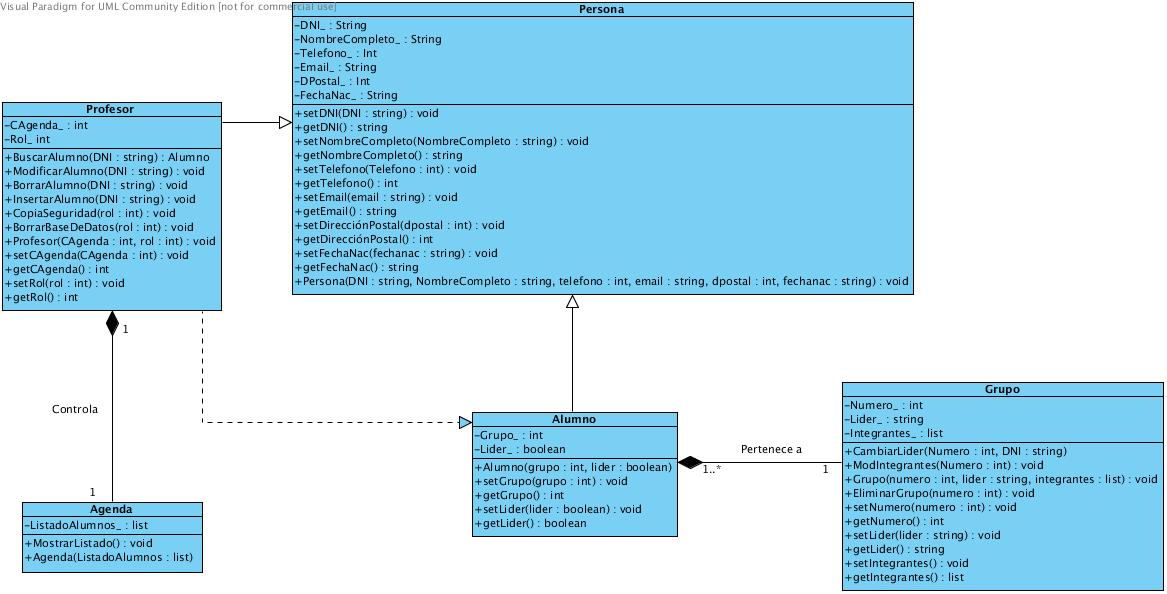
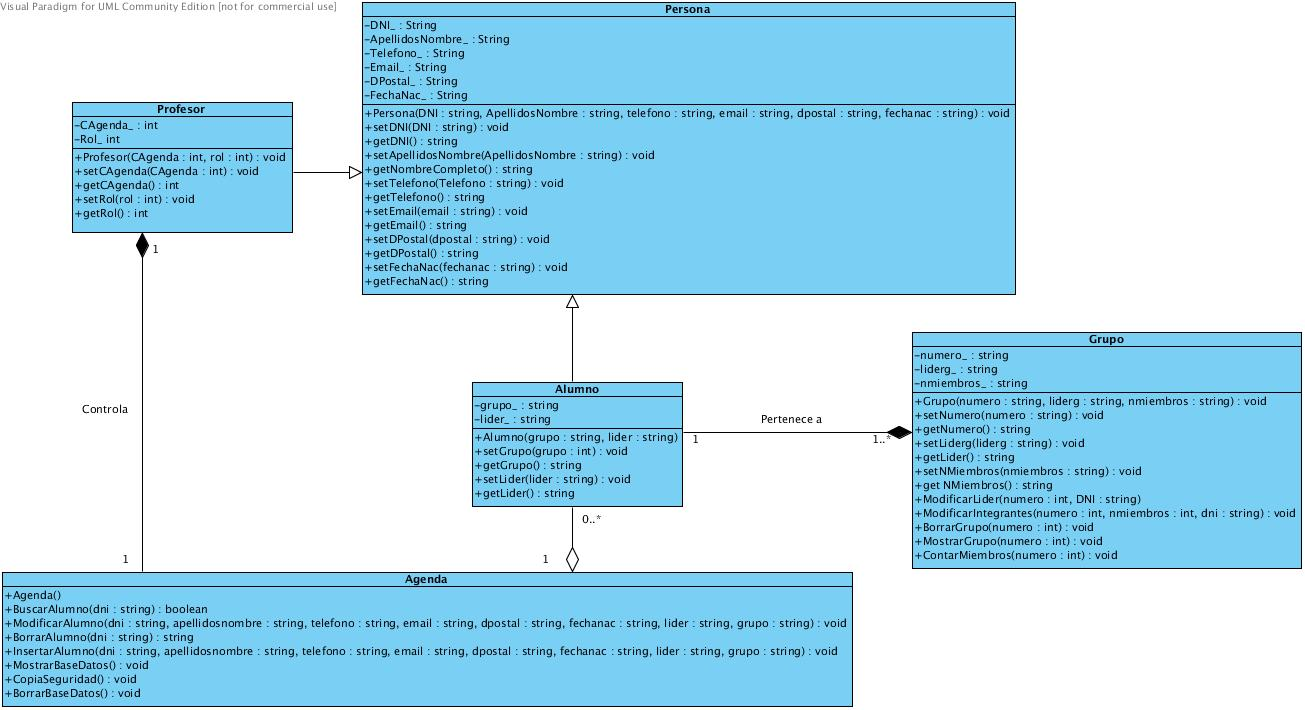
COMPLETO

diff --git a/practica3/02.Diagrama_de_clase.md b/practica3/02.Diagrama_de_clase.md
@@ -1,6 +1,6 @@
 **EXPLICACION DIAGRAMA DE CLASES**
 ---
-**CLASES PRESENTES**
+**CLASES PRESENTES.**
 Cada clase contiene su propia función constructora de la clase y sus funciones
 'Get' y 'Set' para cada atributo de la propia clase.
 
@@ -19,7 +19,7 @@ Cada clase contiene su propia función constructora de la clase y sus funciones
 - *Alumnos:* Es una de las clases que aparecen de la distinción de Persona y da
   lugar a la clase Grupo, tiene como atributos:
   - Grupo: Es el número de grupo al que cada alumno pertenece, apunta a la clase
-    'Grupo'.
+    'Grupo'
   - Líder: Es un dato de 'Si/No' que comprueba si dicho alumno es el líder de su
     grupo.
 
@@ -31,11 +31,14 @@ Cada clase contiene su propia función constructora de la clase y sus funciones
   - Integrantes: Es un atributo múltiple que contiene el nombre de todos
     los integrantes del grupo, líder incluido.
 
-  &nbsp;
-  *La clase Grupo también contiene las operaciones:*
-  - CambiarLíder(): Permite el cambio del líder del grupo mediante la introducción
+    &nbsp;
+
+  La clase Grupo también contiene las operaciones:
+  - MostrarGrupo(): Muestra a todos los componentes del grupo.
+  - ContarMiembros(): Cuenta los miembros que existen dentro de un grupo.
+  - ModificarLíder(): Permite el cambio del líder del grupo mediante la introducción
     del DNI del nuevo líder.
-  - ModIntegrantes(): Permite la expulsión o agregación de alumnos al grupo,
+  - ModificarIntegrantes(): Permite la expulsión o agregación de alumnos al grupo,
     no se puede expulsar al líder de forma que para echar al alumno líder hay que
     cambiar el líder previamente con 'Cambiar líder()'.
   - EliminarGrupo(): Permite la eliminación total del grupo.
@@ -43,13 +46,16 @@ Cada clase contiene su propia función constructora de la clase y sus funciones
 - *Profesor:* Es la otra clase que aparece como distinción de la clase 'Persona'
   y da lugar a la clase 'Agenda', esta clase hace referencia a la clase 'Alumnos'
   en algunas funciones, sus atributos son:
-  - CAgenda: Contiene el dato que distingue a los profesores.
+  - CAgenda: Contiene el dato que distingue a los profesores
   - Rol: Si contiene un 1, el rol asignado es el de 'Coordinador', si contiene
     un 0, se le asigna el rol 'Ayudante'. El rol 'Coordinador' tiene acceso a
     más funciones por ello es necesario hacer esta distinción.
 
-  &nbsp;
-  *La clase Profesor contiene las operaciones:*
+- *Agenda:* Es la clase que recoge el listado de todos los alumnos de la base de
+  datos, no tiene atributos.
+
+  *La clase Agenda contiene las operaciones:*
+
   - BuscarAlumno(): Busca un alumno mediante el dni y devuelve sus datos, si
     el alumno no existe aparece un mensaje de error por pantalla.
   - ModificarAlumno(): Recibe el DNI del alumno a modificar y hace una llamada
@@ -60,26 +66,17 @@ Cada clase contiene su propia función constructora de la clase y sus funciones
   - InsertarAlumno(): Recibe el DNI del nuevo alumno y hace una llamada a
     BuscarAlumno(), si el alumno no existe en la base de datos pide los datos
     del nuevo alumno.
-  - CopiaSeguridad(): Pide el rol del profesor, si este es Coordinador se crea
-    una copia de seguridad de toda la base de datos existente en un fichero
-    binario, si el rol no es de Coordinador termina directamente la función
-  - BorrarBaseDeDatos(): Pide el rol del profesor, si este es Coordinador imprime
-    un mensaje de alerta y luego pide confirmación para borrar toda la base de
-    datos, si el rol no es de Coordinador termina directamente la función.
-
-- *Agenda:* Es la clase que recoge el listado de todos los alumnos de la base de
-  datos, tiene como atributo:
-  - ListadoAlumnos: Es una lista que recoge todos los alumnos.
-
-  &nbsp;
-  *La clase Agenda contiene la operacion:*
-  - MostrarListado(): Hace las veces de un getAgenda(), muestra todo el listado
-    de alumnos de la base de datos.
+  - CopiaSeguridad(): Crea una copia de seguridad de toda la base de datos
+    existente en un fichero binario.
+  - BorrarBaseDeDatos(): Imprime un mensaje de alerta y luego pide confirmación
+    para borrar toda la base de datos.
+  - MostrarBaseDatos(): Muestra todo el listado de alumnos de la base de datos.
 
 **RELACIONES ENTRE CLASES**
 - Un alumno solo puede pertenecer a un grupo mientras que un único grupo se
-  compone de muchos alumnos.
+  compone de muchos alumnos
 - Un alumno puede uno o varios profesores pero uno de ellos debe ser Coordinador
-  mientras que todos los demás serán Ayudantes.
+  mientras que todos los demás serán Ayudantes
 - Un profesor controla una única agenda de clase y una agenda de clase la
-  controla un único profesor.
+  controla un único profesor
+- La agenda se compone de cero o muchos alumnos
